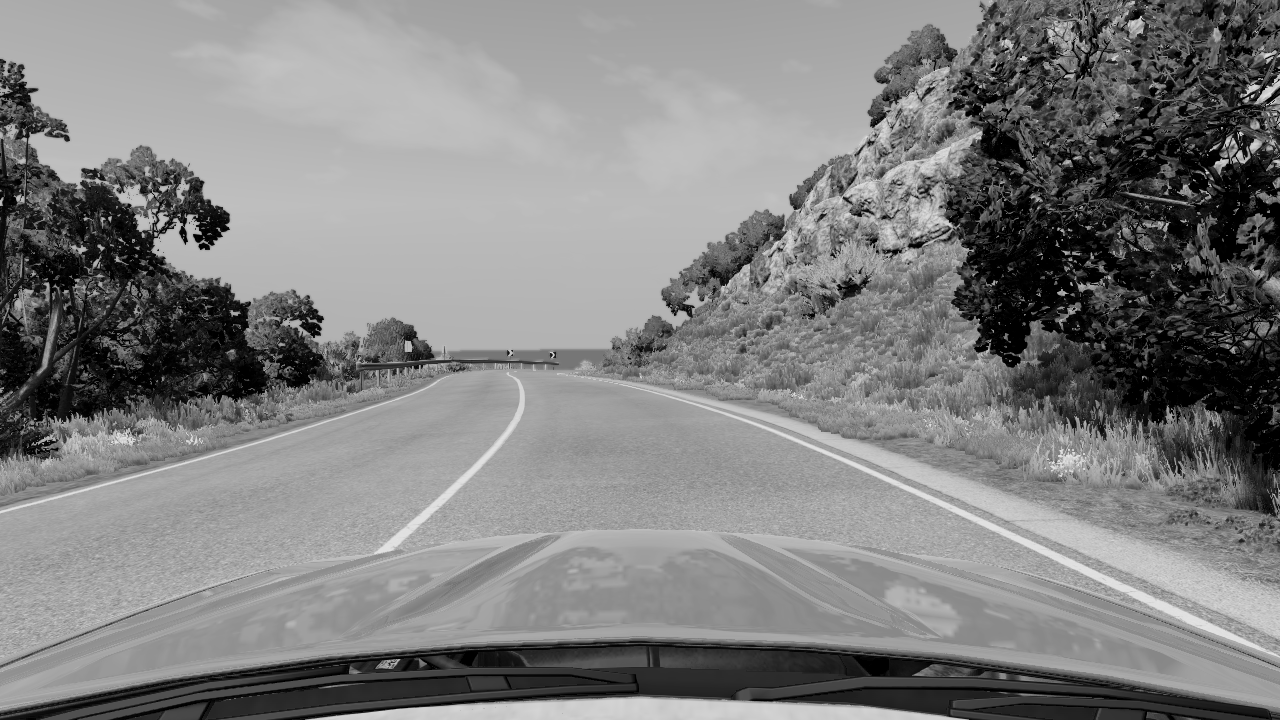
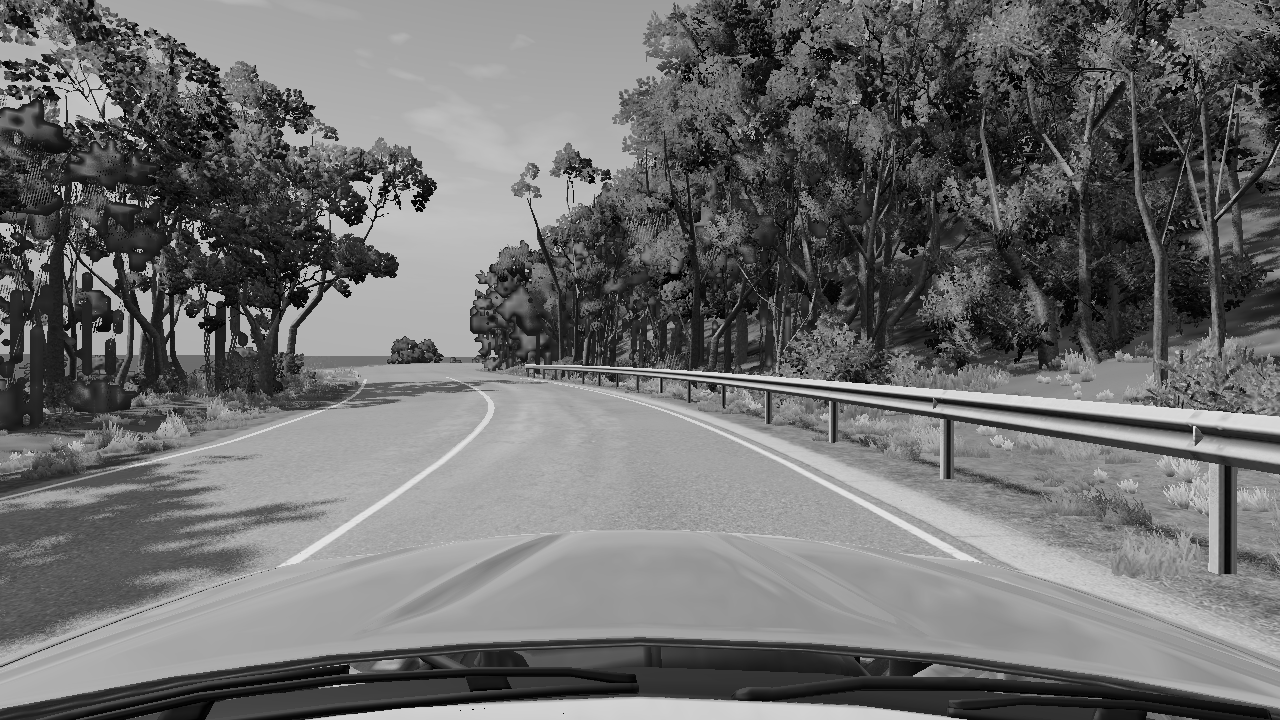
New images with better distance between frames

diff --git a/BeamADAS_Host/testing.py b/BeamADAS_Host/testing.py
@@ -182,18 +182,23 @@ vehicle.attach_sensor('timer', timer)
 timer.attach(vehicle, 'timer')
 timer.connect(bng, vehicle)
 
-input('Hit enter to start camera')
-time.sleep(5)
-for i in range(0, 30, 1):
-    # plt.imsave('img' + str(i) + '.png', np.asarray(camera.poll()['colour'].convert('L')), cmap='gray')
-    camera_data = camera.stream_colour(3686400)
-    camera_data = np.array(camera_data).reshape(height, width, 4)
-    camera_data = (0.299 * camera_data[:, :, 0] + 0.587 * camera_data[:, :, 1] + 0.114 * camera_data[:, :, 2]).astype(np.uint8)
-    Image.fromarray(camera_data, 'L').save('img' + str(i) + '.png', "PNG")
-
 # vehicle.ai_set_speed(22, 'limit')
 # vehicle.ai_drive_in_lane(True)
 # vehicle.ai_set_mode('span')
+
+input('Hit enter to start camera')
+time.sleep(120)
+for i in range(0, 60, 1):
+    # plt.imsave('img' + str(i) + '.png', np.asarray(camera.poll()['colour'].convert('L')), cmap='gray')
+    if i % 2 == 0:
+        bng.pause()
+        camera_data = camera.stream_colour(3686400)
+        camera_data = np.array(camera_data).reshape(height, width, 4)
+        camera_data = (0.299 * camera_data[:, :, 0] + 0.587 * camera_data[:, :, 1] + 0.114 * camera_data[:, :, 2]).astype(np.uint8)
+        Image.fromarray(camera_data, 'L').save('img' + str(i//2) + '.png', "PNG")
+        bng.resume()
+    else:
+        vehicle.sensors.poll('timer')
 
 # time.sleep(15)
 
